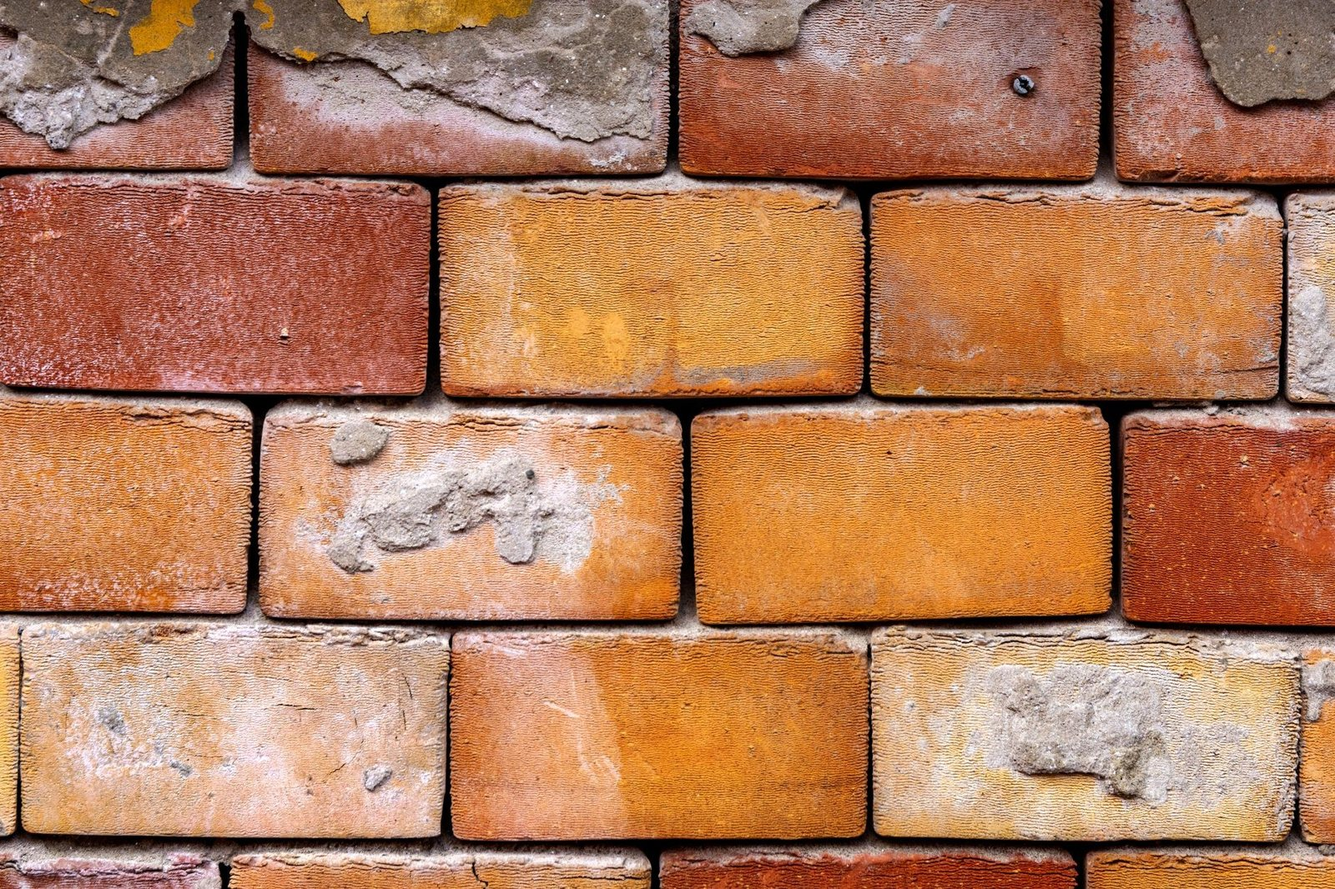
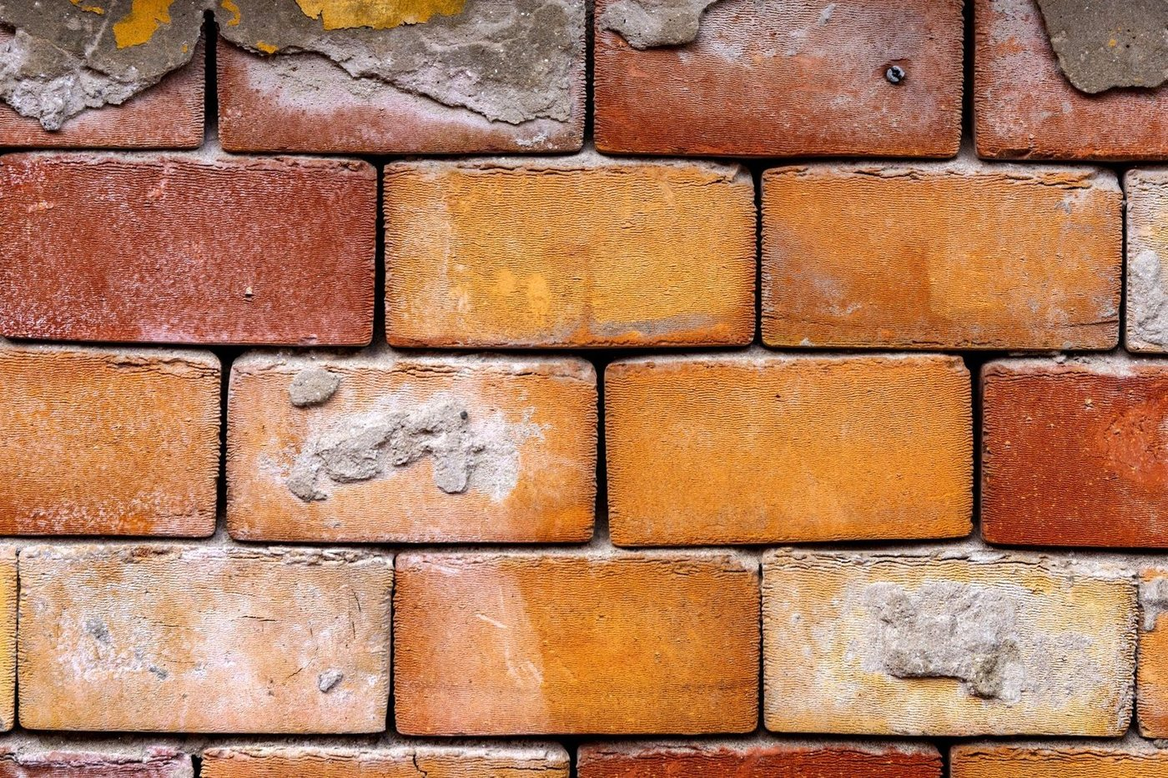
[claude-edit][cmt:70624e82-f1c7-4e8a-b027-82442af0b07d] Nowy hero (salon z ceglana sciana) + strona w stylu mp-parkiet-v2: 12 aranzacji, produkty skladu, inspiracje

diff --git a/index.html b/index.html
@@ -5,6 +5,7 @@
 <meta name="viewport" content="width=device-width, initial-scale=1.0">
 <title>Cuda z Cegły - stara cegła rozbiórkowa i płytki z cegły | Żyrardów</title>
 <meta name="description" content="Cuda z Cegły w Żyrardowie - skład starej cegły rozbiórkowej i płytek z cegły na ściany. Cegła pełna z odzysku, płytki i naroża w wielu odcieniach, sortowane i czyszczone, z transportem. Zadzwoń: 506 927 780.">
+<meta name="theme-color" content="#F07E20">
 <link rel="preconnect" href="https://fonts.googleapis.com">
 <link rel="preconnect" href="https://fonts.gstatic.com" crossorigin>
 <link href="https://fonts.googleapis.com/css2?family=Poppins:wght@400;500;600;700;800&display=swap" rel="stylesheet">
@@ -20,11 +21,14 @@
       <nav class="util-menu">
         <a href="#onas">O nas</a>
         <a href="#produkty">Produkty</a>
-        <a href="#realizacje">Realizacje</a>
-        <a href="#proces">Jak zamówić</a>
+        <a href="#realizacje">Inspiracje</a>
+        <a href="#proces">Jak kupić</a>
         <a href="#kontakt">Kontakt</a>
       </nav>
-      <a href="tel:+48506927780" class="util-phone">☎ 506&nbsp;927&nbsp;780</a>
+      <a href="tel:+48506927780" class="util-phone">
+        <span class="util-phone-ic"><svg viewBox="0 0 24 24" fill="currentColor"><path d="M6.6 10.8c1.4 2.8 3.8 5.1 6.6 6.6l2.2-2.2c.3-.3.7-.4 1-.2 1.1.4 2.3.6 3.6.6.6 0 1 .4 1 1V20c0 .6-.4 1-1 1C10.5 21 3 13.5 3 4c0-.6.4-1 1-1h3.5c.6 0 1 .4 1 1 0 1.2.2 2.4.6 3.6.1.4 0 .8-.3 1l-2.2 2.2z"/></svg></span>
+        506&nbsp;927&nbsp;780
+      </a>
     </div>
   </div>
   <div class="wrap main-nav">
@@ -35,7 +39,7 @@
     <nav class="cats" id="cats">
       <a href="#realizacje" class="cat">
         <span class="cat-ic"><svg viewBox="0 0 24 24"><rect x="3" y="6" width="18" height="14" rx="2"/><circle cx="12" cy="13" r="3.4"/><path d="M8 6l1.5-2h5L16 6"/></svg></span>
-        <span class="cat-t">Realizacje</span>
+        <span class="cat-t">Inspiracje</span>
       </a>
       <a href="#produkty" class="cat">
         <span class="cat-ic"><svg viewBox="0 0 24 24"><rect x="3" y="6" width="18" height="12" rx="1"/><path d="M3 12h18"/><path d="M9 6v6"/><path d="M15 12v6"/></svg></span>
@@ -49,11 +53,11 @@
         <span class="cat-ic"><svg viewBox="0 0 24 24"><path d="M5 5v14h14"/><path d="M5 12h7v7"/></svg></span>
         <span class="cat-t">Naroża</span>
       </a>
-      <a href="#produkty" class="cat">
+      <a href="#realizacje" class="cat">
         <span class="cat-ic"><svg viewBox="0 0 24 24"><rect x="4" y="4" width="16" height="16" rx="1"/><path d="M12 9c1.6 2 2.2 3.1 2.2 4.2a2.2 2.2 0 1 1-4.4 0C9.8 12 10.4 11 12 9z"/></svg></span>
         <span class="cat-t">Kominek</span>
       </a>
-      <a href="#produkty" class="cat">
+      <a href="#realizacje" class="cat">
         <span class="cat-ic"><svg viewBox="0 0 24 24"><path d="M4 20V9l8-5 8 5v11"/><path d="M4 20h16"/><path d="M9 20v-6h6v6"/></svg></span>
         <span class="cat-t">Elewacja</span>
       </a>
@@ -71,8 +75,8 @@
   <nav class="drawer" id="drawer">
     <a href="#onas">O nas</a>
     <a href="#produkty">Produkty</a>
-    <a href="#realizacje">Realizacje</a>
-    <a href="#proces">Jak zamówić</a>
+    <a href="#realizacje">Inspiracje</a>
+    <a href="#proces">Jak kupić</a>
     <a href="#kontakt">Kontakt</a>
     <a href="tel:+48506927780" class="btn btn-accent">Zadzwoń: 506 927 780</a>
   </nav>
@@ -83,14 +87,14 @@
 <!-- ============ HERO ============ -->
 <section class="hero">
   <div class="hero-bg">
-    <img src="img/hero.jpg" alt="Ceglana ściana z odzyskanej cegły - Cuda z Cegły Żyrardów">
+    <img src="img/hero.jpg" alt="Ceglana ściana w salonie ze starej cegły - efekt z materiału ze składu Cuda z Cegły">
     <div class="hero-scrim"></div>
   </div>
   <div class="wrap hero-inner">
     <h1 class="reveal">Stara cegła, która nadaje wnętrzu charakter</h1>
-    <p class="hero-sub reveal">Cegła rozbiórkowa z&nbsp;odzysku i&nbsp;płytki cięte z&nbsp;pełnej starej cegły - na ścianę w&nbsp;salonie, kominek, elewację czy ogród. Każdą partię sortujemy, czyścimy i&nbsp;dobieramy odcień, a&nbsp;zamówienie dowozimy na miejsce. Żyrardów i&nbsp;okolice.</p>
+    <p class="hero-sub reveal">Cegła rozbiórkowa z&nbsp;odzysku i&nbsp;płytki cięte z&nbsp;pełnej starej cegły - na ścianę w&nbsp;salonie, kominek, elewację czy ogród. Każdą partię sortujemy, czyścimy i&nbsp;dobieramy odcień, a&nbsp;materiał dowozimy na miejsce. Żyrardów i&nbsp;okolice.</p>
     <div class="hero-btns reveal">
-      <a href="#kontakt" class="btn btn-accent btn-lg">Zapytaj o&nbsp;dostępność</a>
+      <a href="#kontakt" class="btn btn-accent btn-lg">Sprawdź dostępność</a>
       <a href="tel:+48506927780" class="btn btn-hero-ghost btn-lg">Zadzwoń: 506&nbsp;927&nbsp;780</a>
     </div>
   </div>
@@ -111,17 +115,17 @@
       <h2>Skład starej cegły <span class="hl">w&nbsp;Żyrardowie</span></h2>
       <p class="claim"><span class="hl">Stara cegła dostaje drugie życie</span> - z&nbsp;rozbiórek, sortowana i&nbsp;czyszczona, na ścianę, kominek i&nbsp;elewację.</p>
       <p class="aw-p">Odbieramy cegłę z&nbsp;rozbiórek, czyścimy z&nbsp;zaprawy i&nbsp;sortujemy według koloru oraz stanu, a&nbsp;z&nbsp;części tniemy płytki i&nbsp;naroża na ściany. Z&nbsp;jednego materiału zrobisz murek w&nbsp;ogrodzie i&nbsp;ceglaną ścianę w&nbsp;salonie. Doradzimy, która cegła sprawdzi się na kominek, która na elewację, a&nbsp;która da najlepszy efekt w&nbsp;mieszkaniu.</p>
-      <a href="#kontakt" class="btn btn-outline">Poznaj skład</a>
+      <a href="#produkty" class="btn btn-outline">Zobacz, co mamy na składzie</a>
     </div>
     <div class="aw-right">
       <span class="label reveal">Dlaczego Cuda z&nbsp;Cegły?</span>
       <div class="why-grid">
-        <article class="why reveal"><div class="why-thumb"><img src="img/g5.jpg" alt="" loading="lazy"><span class="why-n">01</span></div><div class="why-tx"><h3>Cegła z&nbsp;odzysku</h3><p>Odbieramy starą cegłę z&nbsp;rozbiórek i&nbsp;dajemy jej drugie życie. Prawdziwa patyna, nie sztuczne postarzanie.</p></div></article>
-        <article class="why reveal"><div class="why-thumb"><img src="img/about.jpg" alt="" loading="lazy"><span class="why-n">02</span></div><div class="why-tx"><h3>Sortowana i&nbsp;czyszczona</h3><p>Każdą partię czyścimy z&nbsp;zaprawy i&nbsp;sortujemy według koloru i&nbsp;stanu, żebyś dostał to, co widzisz.</p></div></article>
-        <article class="why reveal"><div class="why-thumb"><img src="img/g1.jpg" alt="" loading="lazy"><span class="why-n">03</span></div><div class="why-tx"><h3>Płytki i&nbsp;naroża <span class="hl">z&nbsp;cegły</span></h3><p>Z&nbsp;pełnej cegły tniemy płytki i&nbsp;naroża na ścianę - lżejsze, a&nbsp;charakter dokładnie ten sam.</p></div></article>
-        <article class="why reveal"><div class="why-thumb"><img src="img/g8.jpg" alt="" loading="lazy"><span class="why-n">04</span></div><div class="why-tx"><h3>Dobór odcienia</h3><p>Podpowiemy, która cegła da najlepszy efekt na Twojej ścianie, kominku czy elewacji.</p></div></article>
-        <article class="why reveal"><div class="why-thumb"><img src="img/g2.jpg" alt="" loading="lazy"><span class="why-n">05</span></div><div class="why-tx"><h3>Przyjedź na&nbsp;skład</h3><p>Obejrzysz i&nbsp;dotkniesz materiał na miejscu, zanim zamówisz. Bez kupowania w&nbsp;ciemno.</p></div></article>
-        <article class="why reveal"><div class="why-thumb"><img src="img/g7.jpg" alt="" loading="lazy"><span class="why-n">06</span></div><div class="why-tx"><h3>Transport na&nbsp;miejsce</h3><p>Zamówienie dowozimy pod wskazany adres, gotowe do układania. Żyrardów i&nbsp;okolice.</p></div></article>
+        <article class="why reveal"><div class="why-thumb"><img src="img/a5.jpg" alt="" loading="lazy"><span class="why-n">01</span></div><div class="why-tx"><h3>Cegła z&nbsp;odzysku</h3><p>Odbieramy starą cegłę z&nbsp;rozbiórek i&nbsp;dajemy jej drugie życie. Prawdziwa patyna, nie sztuczne postarzanie.</p></div></article>
+        <article class="why reveal"><div class="why-thumb"><img src="img/g2.jpg" alt="" loading="lazy"><span class="why-n">02</span></div><div class="why-tx"><h3>Sortowana i&nbsp;czyszczona</h3><p>Każdą partię czyścimy z&nbsp;zaprawy i&nbsp;sortujemy według koloru i&nbsp;stanu, żebyś dostał to, co widzisz.</p></div></article>
+        <article class="why reveal"><div class="why-thumb"><img src="img/a6.jpg" alt="" loading="lazy"><span class="why-n">03</span></div><div class="why-tx"><h3>Płytki i&nbsp;naroża <span class="hl">z&nbsp;cegły</span></h3><p>Z&nbsp;pełnej cegły tniemy płytki i&nbsp;naroża na ścianę - lżejsze, a&nbsp;charakter dokładnie ten sam.</p></div></article>
+        <article class="why reveal"><div class="why-thumb"><img src="img/a7.jpg" alt="" loading="lazy"><span class="why-n">04</span></div><div class="why-tx"><h3>Dobór odcienia</h3><p>Podpowiemy, która cegła da najlepszy efekt na Twojej ścianie, kominku czy elewacji.</p></div></article>
+        <article class="why reveal"><div class="why-thumb"><img src="img/about.jpg" alt="" loading="lazy"><span class="why-n">05</span></div><div class="why-tx"><h3>Przyjedź na&nbsp;skład</h3><p>Obejrzysz i&nbsp;dotkniesz materiał na miejscu, zanim się zdecydujesz. Bez kupowania w&nbsp;ciemno.</p></div></article>
+        <article class="why reveal"><div class="why-thumb"><img src="img/g4.jpg" alt="" loading="lazy"><span class="why-n">06</span></div><div class="why-tx"><h3>Transport na&nbsp;miejsce</h3><p>Materiał dowozimy pod wskazany adres, gotowy do układania. Żyrardów i&nbsp;okolice.</p></div></article>
       </div>
     </div>
   </div>
@@ -134,50 +138,50 @@
     <h2 class="tiles-h">Cegła i&nbsp;płytki z&nbsp;naszego składu</h2>
   </div>
   <div class="tiles" id="produkty">
-    <a href="#kontakt" class="tile reveal"><img src="img/g5.jpg" alt="Cegła rozbiórkowa pełna" loading="lazy"><span class="tile-scrim"></span><span class="tile-t">Cegła rozbiórkowa</span><span class="tile-arr">↘</span></a>
-    <a href="#kontakt" class="tile reveal"><img src="img/g1.jpg" alt="Płytki cięte z cegły" loading="lazy"><span class="tile-scrim"></span><span class="tile-t">Płytki z&nbsp;cegły</span><span class="tile-arr">↘</span></a>
-    <a href="#kontakt" class="tile reveal"><img src="img/g3.jpg" alt="Płytki narożnikowe z cegły" loading="lazy"><span class="tile-scrim"></span><span class="tile-t">Naroża</span><span class="tile-arr">↘</span></a>
-    <a href="#kontakt" class="tile reveal"><img src="img/g6.jpg" alt="Ceglana ściana w salonie" loading="lazy"><span class="tile-scrim"></span><span class="tile-t">Ściana w&nbsp;salonie</span><span class="tile-arr">↘</span></a>
-    <a href="#kontakt" class="tile reveal"><img src="img/g7.jpg" alt="Cegła na elewację i do ogrodu" loading="lazy"><span class="tile-scrim"></span><span class="tile-t">Elewacja i&nbsp;ogród</span><span class="tile-arr">↘</span></a>
-    <a href="#kontakt" class="tile reveal"><img src="img/g8.jpg" alt="Odcienie starej cegły" loading="lazy"><span class="tile-scrim"></span><span class="tile-t">Odcienie cegły</span><span class="tile-arr">↘</span></a>
+    <a href="#kontakt" class="tile reveal"><img src="img/g5.jpg" alt="Cegła rozbiórkowa pełna na palecie - skład Żyrardów" loading="lazy"><span class="tile-scrim"></span><span class="tile-t">Cegła rozbiórkowa</span><span class="tile-arr"><svg viewBox="0 0 24 24"><path d="M7 7h10v10"/><path d="M7 17L17 7"/></svg></span></a>
+    <a href="#kontakt" class="tile reveal"><img src="img/g1.jpg" alt="Płytki cięte ze starej cegły pełnej" loading="lazy"><span class="tile-scrim"></span><span class="tile-t">Płytki z&nbsp;cegły</span><span class="tile-arr"><svg viewBox="0 0 24 24"><path d="M7 7h10v10"/><path d="M7 17L17 7"/></svg></span></a>
+    <a href="#kontakt" class="tile reveal"><img src="img/g3.jpg" alt="Naroża z cegły rozbiórkowej" loading="lazy"><span class="tile-scrim"></span><span class="tile-t">Naroża</span><span class="tile-arr"><svg viewBox="0 0 24 24"><path d="M7 7h10v10"/><path d="M7 17L17 7"/></svg></span></a>
+    <a href="#realizacje" class="tile reveal"><img src="img/g7.jpg" alt="Ściana ze starej cegły rozbiórkowej we wnętrzu" loading="lazy"><span class="tile-scrim"></span><span class="tile-t">Ściana z&nbsp;cegły</span><span class="tile-arr"><svg viewBox="0 0 24 24"><path d="M7 7h10v10"/><path d="M7 17L17 7"/></svg></span></a>
+    <a href="#kontakt" class="tile reveal"><img src="img/a4.jpg" alt="Mur i elewacja ze starej cegły" loading="lazy"><span class="tile-scrim"></span><span class="tile-t">Elewacja i&nbsp;ogród</span><span class="tile-arr"><svg viewBox="0 0 24 24"><path d="M7 7h10v10"/><path d="M7 17L17 7"/></svg></span></a>
+    <a href="#kontakt" class="tile reveal"><img src="img/g8.jpg" alt="Odcienie starej cegły - detal" loading="lazy"><span class="tile-scrim"></span><span class="tile-t">Odcienie cegły</span><span class="tile-arr"><svg viewBox="0 0 24 24"><path d="M7 7h10v10"/><path d="M7 17L17 7"/></svg></span></a>
   </div>
 </section>
 
-<!-- ============ REALIZACJE ============ -->
+<!-- ============ INSPIRACJE ============ -->
 <section class="insp" id="realizacje">
   <div class="wrap">
     <span class="label">Zainspiruj się!</span>
-    <h2 class="insp-h">Cegła i&nbsp;płytki na ścianie</h2>
+    <h2 class="insp-h">Gdzie stara cegła robi robotę</h2>
     <div class="realiz reveal">
-      <div class="realiz-main"><img src="img/g6.jpg" alt="Ceglana ściana w salonie - realizacja z płytek Cuda z Cegły" loading="lazy"></div>
+      <div class="realiz-main"><img src="img/a2.jpg" alt="Kominek obłożony starą cegłą rozbiórkową" loading="lazy"></div>
       <div class="realiz-info">
-        <h3>Ceglana ściana w&nbsp;salonie - płytki z&nbsp;odzysku</h3>
+        <h3>Kominek w&nbsp;cegle - cegła pełna z&nbsp;odzysku i&nbsp;naroża</h3>
         <ul class="specs">
-          <li><span>Zastosowanie:</span><strong>ściana w salonie</strong></li>
-          <li><span>Materiał:</span><strong>płytki cięte z cegły</strong></li>
-          <li><span>Kolor:</span><strong>naturalna czerwień</strong></li>
-          <li><span>Charakter:</span><strong>stara cegła z odzysku</strong></li>
-          <li><span>Lokalizacja:</span><strong>Żyrardów i okolice</strong></li>
+          <li><span>Zastosowanie:</span><strong>kominek, ściana, elewacja</strong></li>
+          <li><span>Materiał:</span><strong>cegła pełna z odzysku, płytki, naroża</strong></li>
+          <li><span>Efekt:</span><strong>patyna, której nie da się podrobić</strong></li>
+          <li><span>Kolor:</span><strong>od jasnej brzoskwini do głębokiej czerwieni</strong></li>
+          <li><span>Dostępność:</span><strong>skład Żyrardów, z transportem</strong></li>
         </ul>
         <div class="realiz-btns">
-          <a href="#kontakt" class="btn btn-accent">Zapytaj o taki materiał</a>
+          <a href="#kontakt" class="btn btn-accent">Dobierzmy materiał pod Twoją ścianę</a>
           <a href="tel:+48506927780" class="btn btn-outline">Zadzwoń</a>
         </div>
       </div>
       <div class="realiz-grid">
-        <img src="img/g7.jpg" alt="Ściana z cegły rozbiórkowej" loading="lazy">
-        <img src="img/g8.jpg" alt="Cegła na ścianie - detal" loading="lazy">
-        <img src="img/g2.jpg" alt="Sortowane płytki z cegły w skrzynkach" loading="lazy">
-        <img src="img/g5.jpg" alt="Cegła rozbiórkowa na palecie" loading="lazy">
+        <img src="img/a10.jpg" alt="Jasny salon z kominkiem z cegły" loading="lazy">
+        <img src="img/a3.jpg" alt="Ceglana ściana w lokalu gastronomicznym" loading="lazy">
+        <img src="img/a8.jpg" alt="Elewacja z cegły licowej" loading="lazy">
+        <img src="img/a1.jpg" alt="Ceglana ściana w pokoju z płytek ciętych z cegły" loading="lazy">
       </div>
     </div>
     <div class="gallery">
-      <figure class="reveal"><img src="img/g1.jpg" alt="Płytki cięte z cegły" loading="lazy"><figcaption>Płytki cięte z&nbsp;cegły</figcaption></figure>
-      <figure class="reveal"><img src="img/g3.jpg" alt="Naroża z cegły" loading="lazy"><figcaption>Naroża z&nbsp;cegły</figcaption></figure>
-      <figure class="reveal"><img src="img/about.jpg" alt="Cegła na składzie w Żyrardowie" loading="lazy"><figcaption>Cegła na&nbsp;składzie</figcaption></figure>
-      <figure class="reveal"><img src="img/g4.jpg" alt="Sortowane płytki i naroża" loading="lazy"><figcaption>Sortowane płytki i&nbsp;naroża</figcaption></figure>
+      <figure class="reveal"><img src="img/g6.jpg" alt="Ceglana ściana w salonie u klienta - materiał z naszego składu" loading="lazy"><figcaption>Realizacja u&nbsp;klienta</figcaption></figure>
+      <figure class="reveal"><img src="img/a9.jpg" alt="Wkład kominkowy w obudowie z cegły" loading="lazy"><figcaption>Kominek w&nbsp;cegle</figcaption></figure>
+      <figure class="reveal"><img src="img/a12.jpg" alt="Przestrzeń dzienna z ceglanym kominem" loading="lazy"><figcaption>Przestrzeń dzienna</figcaption></figure>
+      <figure class="reveal"><img src="img/a11.jpg" alt="Stary mur z cegły rozbiórkowej z bliska" loading="lazy"><figcaption>Stary mur z&nbsp;bliska</figcaption></figure>
     </div>
-    <p class="gallery-note">Zdjęcia z&nbsp;naszego składu i&nbsp;realizacji - prawdziwy materiał, nie katalogowe wizualizacje. Więcej odcieni i&nbsp;partii pokażemy na miejscu.</p>
+    <p class="gallery-note">Aranżacje pokazują, jak wygląda stara cegła i&nbsp;płytki na ścianie. Materiał z&nbsp;naszego składu widzisz wyżej, w&nbsp;sekcji Produkty - a&nbsp;każdą partię obejrzysz na miejscu, w&nbsp;Żyrardowie.</p>
   </div>
 </section>
 
@@ -194,12 +198,12 @@
 <!-- ============ PROCES ============ -->
 <section class="proces" id="proces">
   <div class="wrap">
-    <span class="label">Jak zamówić</span>
+    <span class="label">Jak kupić</span>
     <h2 class="proces-h">Prosto - od składu po transport pod dom</h2>
     <div class="steps">
       <div class="step reveal"><span class="step-n">01</span><h3>Przyjedź lub&nbsp;zadzwoń</h3><p>Obejrzysz materiał na składzie albo opowiesz przez telefon, co planujesz. Powiemy, co się sprawdzi.</p></div>
       <div class="step reveal"><span class="step-n">02</span><h3>Dobór i&nbsp;wycena</h3><p>Dobieramy odcień i&nbsp;ilość pod Twój projekt - ścianę, kominek czy elewację - i&nbsp;podajemy jasną cenę.</p></div>
-      <div class="step reveal"><span class="step-n">03</span><h3>Transport na&nbsp;miejsce</h3><p>Dowozimy zamówienie pod wskazany adres, posortowane i&nbsp;gotowe do układania.</p></div>
+      <div class="step reveal"><span class="step-n">03</span><h3>Transport na&nbsp;miejsce</h3><p>Dowozimy pod wskazany adres, posortowane i&nbsp;gotowe do układania.</p></div>
     </div>
   </div>
 </section>
@@ -210,11 +214,11 @@
     <span class="label">Opinie klientów</span>
     <h2 class="opinie-h">Co mówią klienci</h2>
     <div class="ops">
-      <blockquote class="op reveal"><div class="stars">★★★★★</div><p>„Cegła dokładnie w&nbsp;takim odcieniu, jak chcieliśmy pod ścianę w&nbsp;salonie. Posortowana, czysta, dowieziona na czas. Efekt rewelacyjny."</p><cite>Klient z&nbsp;Żyrardowa</cite></blockquote>
-      <blockquote class="op reveal"><div class="stars">★★★★★</div><p>„Płytki z&nbsp;cegły i&nbsp;naroża na kominek - wszystko pasowało kolorem. Można było przyjechać i&nbsp;wszystko obejrzeć przed zakupem."</p><cite>Klientka z&nbsp;okolic Żyrardowa</cite></blockquote>
-      <blockquote class="op reveal"><div class="stars">★★★★★</div><p>„Stara cegła na elewację, w&nbsp;świetnym stanie i&nbsp;w&nbsp;dobrej cenie. Doradzili, ile potrzeba i&nbsp;dowieźli pod adres. Polecam."</p><cite>Klient z&nbsp;okolic Żyrardowa</cite></blockquote>
+      <blockquote class="op reveal"><div class="stars" aria-label="5 na 5"><svg viewBox="0 0 24 24"><path d="M12 2.8l2.85 5.8 6.4.93-4.63 4.5 1.1 6.37L12 17.4l-5.72 3 1.1-6.37L2.75 9.53l6.4-.93L12 2.8Z"/></svg><svg viewBox="0 0 24 24"><path d="M12 2.8l2.85 5.8 6.4.93-4.63 4.5 1.1 6.37L12 17.4l-5.72 3 1.1-6.37L2.75 9.53l6.4-.93L12 2.8Z"/></svg><svg viewBox="0 0 24 24"><path d="M12 2.8l2.85 5.8 6.4.93-4.63 4.5 1.1 6.37L12 17.4l-5.72 3 1.1-6.37L2.75 9.53l6.4-.93L12 2.8Z"/></svg><svg viewBox="0 0 24 24"><path d="M12 2.8l2.85 5.8 6.4.93-4.63 4.5 1.1 6.37L12 17.4l-5.72 3 1.1-6.37L2.75 9.53l6.4-.93L12 2.8Z"/></svg><svg viewBox="0 0 24 24"><path d="M12 2.8l2.85 5.8 6.4.93-4.63 4.5 1.1 6.37L12 17.4l-5.72 3 1.1-6.37L2.75 9.53l6.4-.93L12 2.8Z"/></svg></div><p>„Cegła dokładnie w&nbsp;takim odcieniu, jak chcieliśmy pod ścianę w&nbsp;salonie. Posortowana, czysta, dowieziona na czas. Efekt rewelacyjny."</p><cite>Klient z&nbsp;Żyrardowa</cite></blockquote>
+      <blockquote class="op reveal"><div class="stars" aria-label="5 na 5"><svg viewBox="0 0 24 24"><path d="M12 2.8l2.85 5.8 6.4.93-4.63 4.5 1.1 6.37L12 17.4l-5.72 3 1.1-6.37L2.75 9.53l6.4-.93L12 2.8Z"/></svg><svg viewBox="0 0 24 24"><path d="M12 2.8l2.85 5.8 6.4.93-4.63 4.5 1.1 6.37L12 17.4l-5.72 3 1.1-6.37L2.75 9.53l6.4-.93L12 2.8Z"/></svg><svg viewBox="0 0 24 24"><path d="M12 2.8l2.85 5.8 6.4.93-4.63 4.5 1.1 6.37L12 17.4l-5.72 3 1.1-6.37L2.75 9.53l6.4-.93L12 2.8Z"/></svg><svg viewBox="0 0 24 24"><path d="M12 2.8l2.85 5.8 6.4.93-4.63 4.5 1.1 6.37L12 17.4l-5.72 3 1.1-6.37L2.75 9.53l6.4-.93L12 2.8Z"/></svg><svg viewBox="0 0 24 24"><path d="M12 2.8l2.85 5.8 6.4.93-4.63 4.5 1.1 6.37L12 17.4l-5.72 3 1.1-6.37L2.75 9.53l6.4-.93L12 2.8Z"/></svg></div><p>„Płytki z&nbsp;cegły i&nbsp;naroża na kominek - wszystko pasowało kolorem. Można było przyjechać i&nbsp;wszystko obejrzeć przed zakupem."</p><cite>Klientka z&nbsp;okolic Żyrardowa</cite></blockquote>
+      <blockquote class="op reveal"><div class="stars" aria-label="5 na 5"><svg viewBox="0 0 24 24"><path d="M12 2.8l2.85 5.8 6.4.93-4.63 4.5 1.1 6.37L12 17.4l-5.72 3 1.1-6.37L2.75 9.53l6.4-.93L12 2.8Z"/></svg><svg viewBox="0 0 24 24"><path d="M12 2.8l2.85 5.8 6.4.93-4.63 4.5 1.1 6.37L12 17.4l-5.72 3 1.1-6.37L2.75 9.53l6.4-.93L12 2.8Z"/></svg><svg viewBox="0 0 24 24"><path d="M12 2.8l2.85 5.8 6.4.93-4.63 4.5 1.1 6.37L12 17.4l-5.72 3 1.1-6.37L2.75 9.53l6.4-.93L12 2.8Z"/></svg><svg viewBox="0 0 24 24"><path d="M12 2.8l2.85 5.8 6.4.93-4.63 4.5 1.1 6.37L12 17.4l-5.72 3 1.1-6.37L2.75 9.53l6.4-.93L12 2.8Z"/></svg><svg viewBox="0 0 24 24"><path d="M12 2.8l2.85 5.8 6.4.93-4.63 4.5 1.1 6.37L12 17.4l-5.72 3 1.1-6.37L2.75 9.53l6.4-.93L12 2.8Z"/></svg></div><p>„Stara cegła na elewację, w&nbsp;świetnym stanie i&nbsp;w&nbsp;dobrej cenie. Doradzili, ile potrzeba i&nbsp;dowieźli pod adres. Polecam."</p><cite>Klient z&nbsp;okolic Żyrardowa</cite></blockquote>
     </div>
-    <p class="op-note">★ Ocena 5,0 w&nbsp;Google. Miejsce na Twoje kolejne opinie - podepniemy je po podpięciu wizytówki.</p>
+    <p class="op-note">Ocena 5,0 w&nbsp;Google. Miejsce na Twoje kolejne opinie - podepniemy je po podpięciu wizytówki.</p>
   </div>
 </section>
 
@@ -225,9 +229,9 @@
       <span class="label label-dark">Kontakt</span>
       <h2>Zacznijmy od krótkiej rozmowy</h2>
       <a href="tel:+48506927780" class="foot-phone">+48 506 927 780</a>
-      <p class="foot-adr">1 Maja 19, 96-300 Żyrardów · skład starej cegły · <a href="https://www.google.com/maps?cid=6894654495016075933" target="_blank" rel="noopener" style="color:inherit;text-decoration:underline">Jak dojechać →</a></p>
+      <p class="foot-adr">1 Maja 19, 96-300 Żyrardów · skład starej cegły · <a href="https://www.google.com/maps?cid=6894654495016075933" target="_blank" rel="noopener" style="color:inherit;text-decoration:underline">Jak dojechać</a></p>
       <div class="foot-btns">
-        <a href="#kontakt" class="btn btn-accent btn-lg" onclick="return false;">Zapytaj o&nbsp;dostępność</a>
+        <a href="tel:+48506927780" class="btn btn-accent btn-lg">Zadzwoń i&nbsp;zapytaj o&nbsp;cenę</a>
         <a href="sms:+48506927780" class="btn btn-outline btn-lg">Napisz SMS</a>
       </div>
     </div>
@@ -237,8 +241,8 @@
       <div class="foot-links">
         <a href="#onas">O nas</a>
         <a href="#produkty">Produkty</a>
-        <a href="#realizacje">Realizacje</a>
-        <a href="#proces">Jak zamówić</a>
+        <a href="#realizacje">Inspiracje</a>
+        <a href="#proces">Jak kupić</a>
       </div>
     </div>
   </div>

diff --git a/assets/styles.css b/assets/styles.css
@@ -43,7 +43,9 @@ h2{font-size:clamp(1.9rem,3.8vw,3rem)}
 .util-menu{display:flex;gap:22px}
 .util-menu a{color:var(--ink);font-weight:500;transition:color .2s}
 .util-menu a:hover{color:var(--accent)}
-.util-phone{font-weight:700;color:var(--accent-dark)}
+.util-phone{display:inline-flex;align-items:center;gap:7px;font-weight:700;color:var(--accent-dark)}
+.util-phone-ic{display:inline-flex;width:15px;height:15px}
+.util-phone-ic svg{width:15px;height:15px}
 .main-nav{display:flex;align-items:center;gap:20px;height:96px}
 .logo{display:flex;flex-direction:column;line-height:1.02}
 .logo .lg-name{font-size:1.6rem;font-weight:800;letter-spacing:-.02em}
@@ -68,9 +70,9 @@ h2{font-size:clamp(1.9rem,3.8vw,3rem)}
 .drawer a.btn{border:2px solid var(--accent);text-align:center;margin-top:10px}
 
 /* ===== HERO ===== */
-.hero{position:relative;min-height:min(82vh,720px);display:flex;align-items:center;color:#fff;overflow:hidden}
+.hero{position:relative;min-height:min(82vh,720px);min-height:min(82svh,720px);display:flex;align-items:center;color:#fff;overflow:hidden}
 .hero-bg{position:absolute;inset:0}
-.hero-bg img{width:100%;height:100%;object-fit:cover;transform:scale(1.05);animation:hz 10s ease-out forwards}
+.hero-bg img{width:100%;height:100%;object-fit:cover;object-position:38% center;transform:scale(1.05);animation:hz 10s ease-out forwards}
 @keyframes hz{to{transform:scale(1)}}
 .hero-scrim{position:absolute;inset:0;background:linear-gradient(90deg,rgba(20,16,12,.78),rgba(20,16,12,.42) 55%,rgba(20,16,12,.15))}
 .hero-inner{position:relative;z-index:2;padding-block:60px}
@@ -107,7 +109,8 @@ h2{font-size:clamp(1.9rem,3.8vw,3rem)}
 .tile:hover img{transform:scale(1.06)}
 .tile-scrim{position:absolute;inset:0;background:linear-gradient(180deg,rgba(15,12,9,.5) 0%,rgba(15,12,9,.05) 30%,rgba(15,12,9,.15) 100%)}
 .tile-t{position:absolute;top:26px;left:0;right:0;text-align:center;color:#fff;font-size:clamp(1.15rem,1.7vw,1.7rem);font-weight:800;text-shadow:0 2px 14px rgba(0,0,0,.5);padding:0 8px}
-.tile-arr{position:absolute;top:86px;left:0;right:0;text-align:center;color:var(--accent);font-size:1.6rem;font-weight:700;opacity:.95}
+.tile-arr{position:absolute;top:82px;left:0;right:0;display:flex;justify-content:center;opacity:.95}
+.tile-arr svg{width:26px;height:26px;fill:none;stroke:var(--accent);stroke-width:2.2;stroke-linecap:round;stroke-linejoin:round;filter:drop-shadow(0 1px 6px rgba(0,0,0,.45))}
 
 /* ===== ZAINSPIRUJ / REALIZACJA ===== */
 .insp{padding-block:clamp(64px,8vw,110px)}
@@ -153,7 +156,8 @@ h2{font-size:clamp(1.9rem,3.8vw,3rem)}
 .opinie-h{font-size:clamp(1.8rem,3.4vw,2.7rem);margin-bottom:40px}
 .ops{display:grid;grid-template-columns:repeat(3,1fr);gap:20px}
 .op{background:#fff;border:1px solid var(--line);border-radius:16px;padding:28px;box-shadow:var(--shadow-sm)}
-.op .stars{color:var(--accent);font-size:1.1rem;letter-spacing:2px;margin-bottom:14px}
+.op .stars{display:flex;gap:3px;margin-bottom:14px}
+.op .stars svg{width:17px;height:17px;fill:var(--accent)}
 .op p{font-size:1rem;margin-bottom:16px}
 .op cite{font-style:normal;font-weight:600;color:var(--muted);font-size:.9rem}
 .op-note{text-align:center;color:var(--muted);font-size:.9rem;margin-top:24px}
@@ -204,6 +208,7 @@ h2{font-size:clamp(1.9rem,3.8vw,3rem)}
   .foot-side{border-left:0;padding-left:0;border-top:1px solid var(--line);padding-top:32px}
 }
 @media(max-width:680px){
+  .hero-bg img{object-position:20% center}
   .why-grid{grid-template-columns:1fr}
   .tiles{grid-template-columns:1fr 1fr}
   .tile{height:240px}
